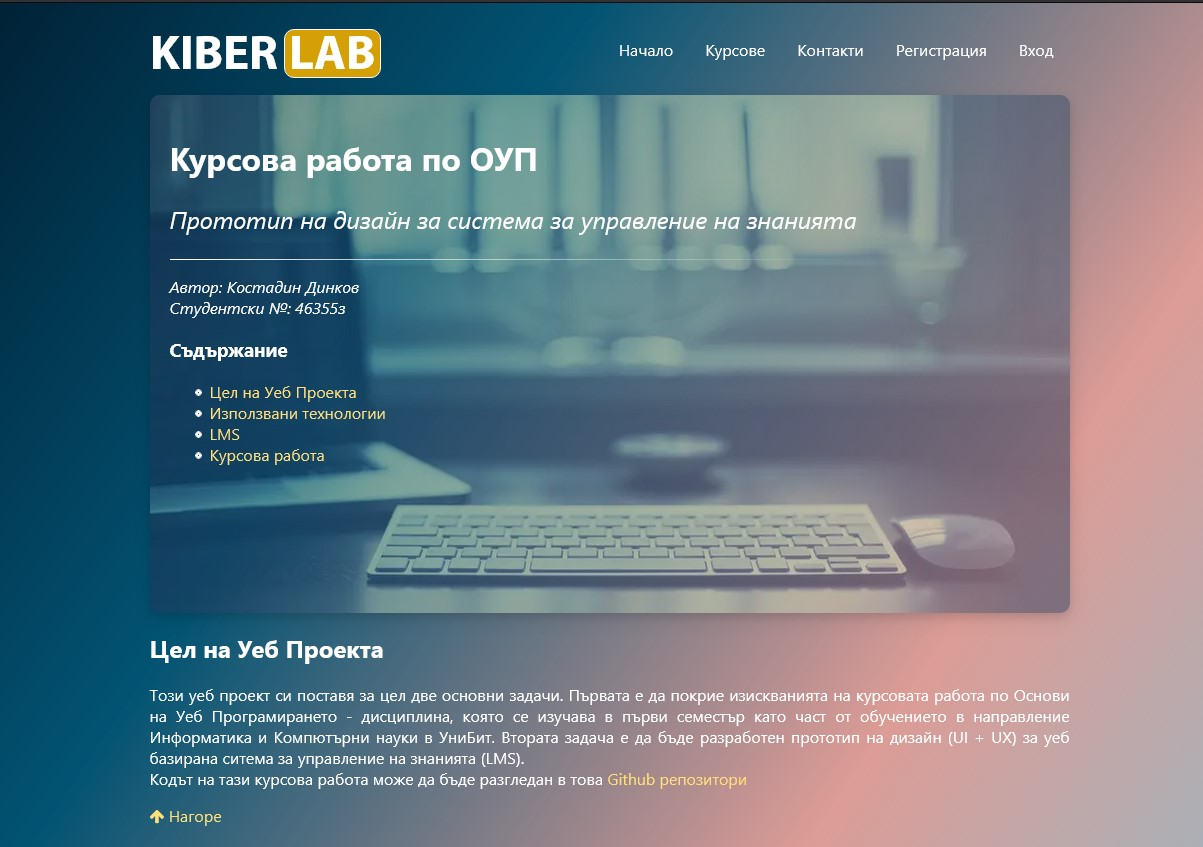
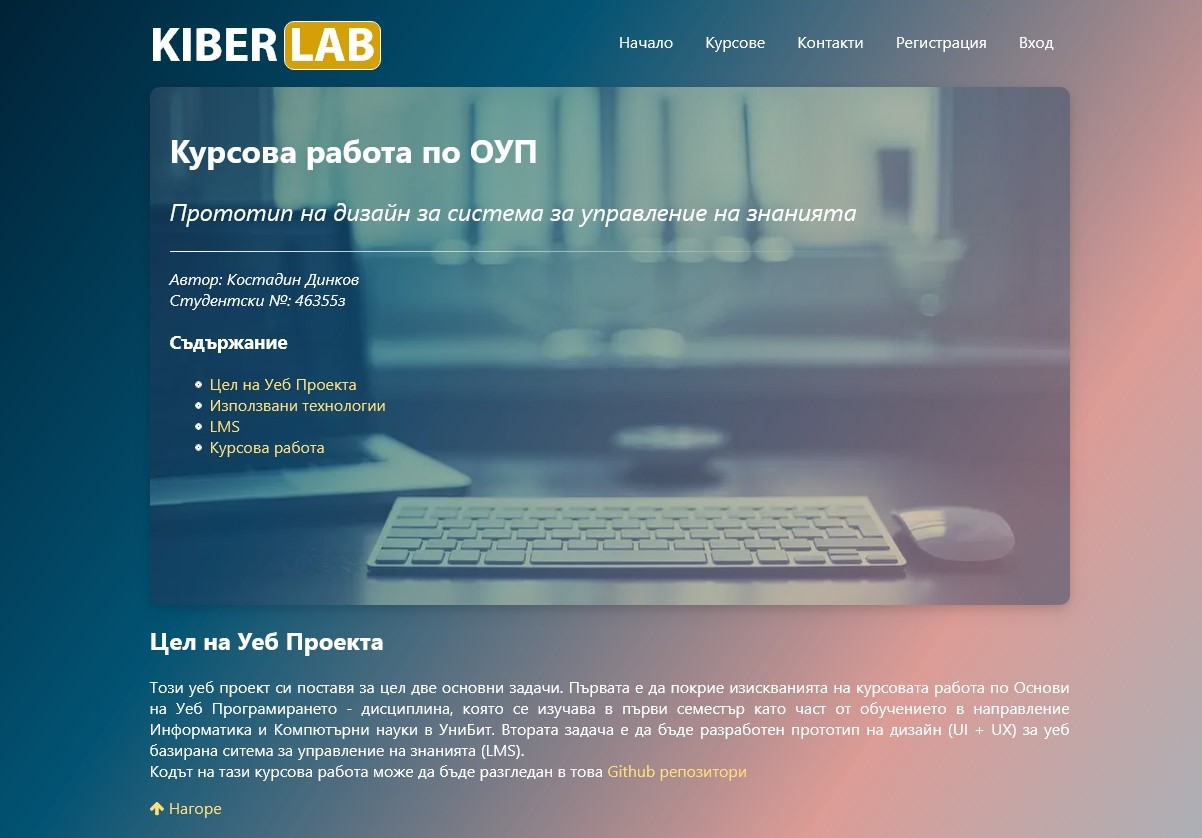
refactor: optimize image sizes

diff --git a/README.md b/README.md
@@ -9,11 +9,15 @@
   Курсова Работа По Основи На Уеб Програмирането
 </h1>
 
+[![Netlify Status](https://api.netlify.com/api/v1/badges/1de6d048-c184-4720-beb4-7858143d18b0/deploy-status)](https://app.netlify.com/sites/kiberlab-lms-gatsby/deploys)
+
 ## 🚀 Стартиране на проекта
 
 Работеща версия на този проект може да бъде видяна на следният адрес:
 
 [Курсов Проект По ОУП](www.netlify.com)
+
+
 
 Кодът за проекта може да бъде разгледан на [този адрес](https://github.com/KostaDinkov/kiberlab-lms-gatsby) в Github.
 
